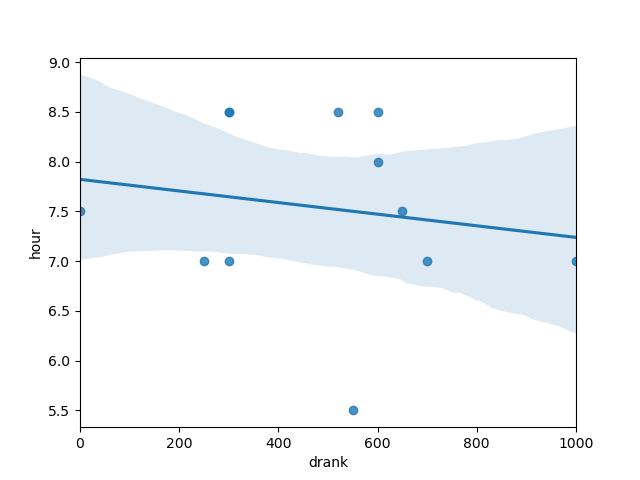
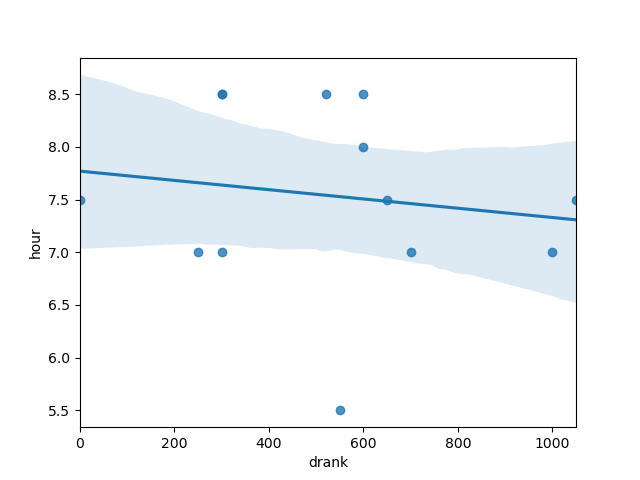
2020/04/14

diff --git a/makeFig.js b/makeFig.js
@@ -20,7 +20,7 @@ function readFirstOnly() {
                 "2020/04/11",
                 "2020/04/12",
                 "2020/04/13",
-                // "2020/04/14",
+                "2020/04/14",
                 // "2020/04/15",
                 // "2020/04/16",
                 // "2020/04/17",
@@ -56,6 +56,7 @@ function readFirstOnly() {
                         7,
                         8.5,
                         7.5,
+                        7.5,
                     ],
                     // pointRadius:8,
                     // pointBorderWidth:4,
@@ -77,6 +78,7 @@ function readFirstOnly() {
                         6.00,
                         3.00,
                         5.20,
+                        10.50,
                     ],
                     borderDash: [8, 2],
                     pointStyle: 'crossRot',
